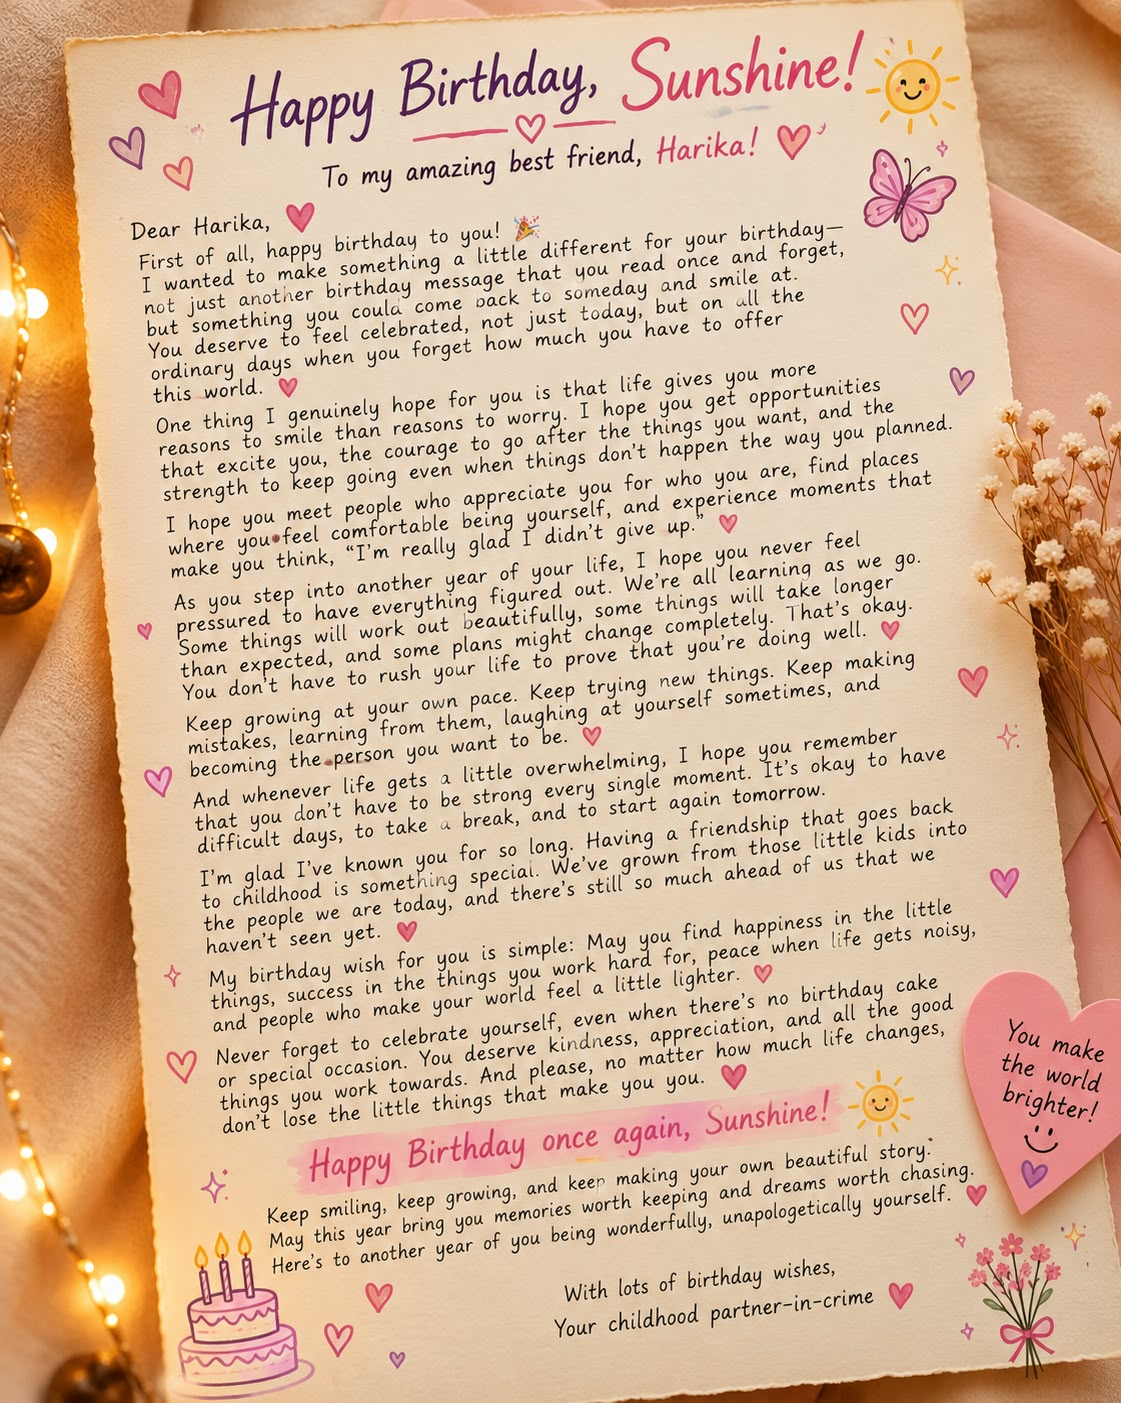
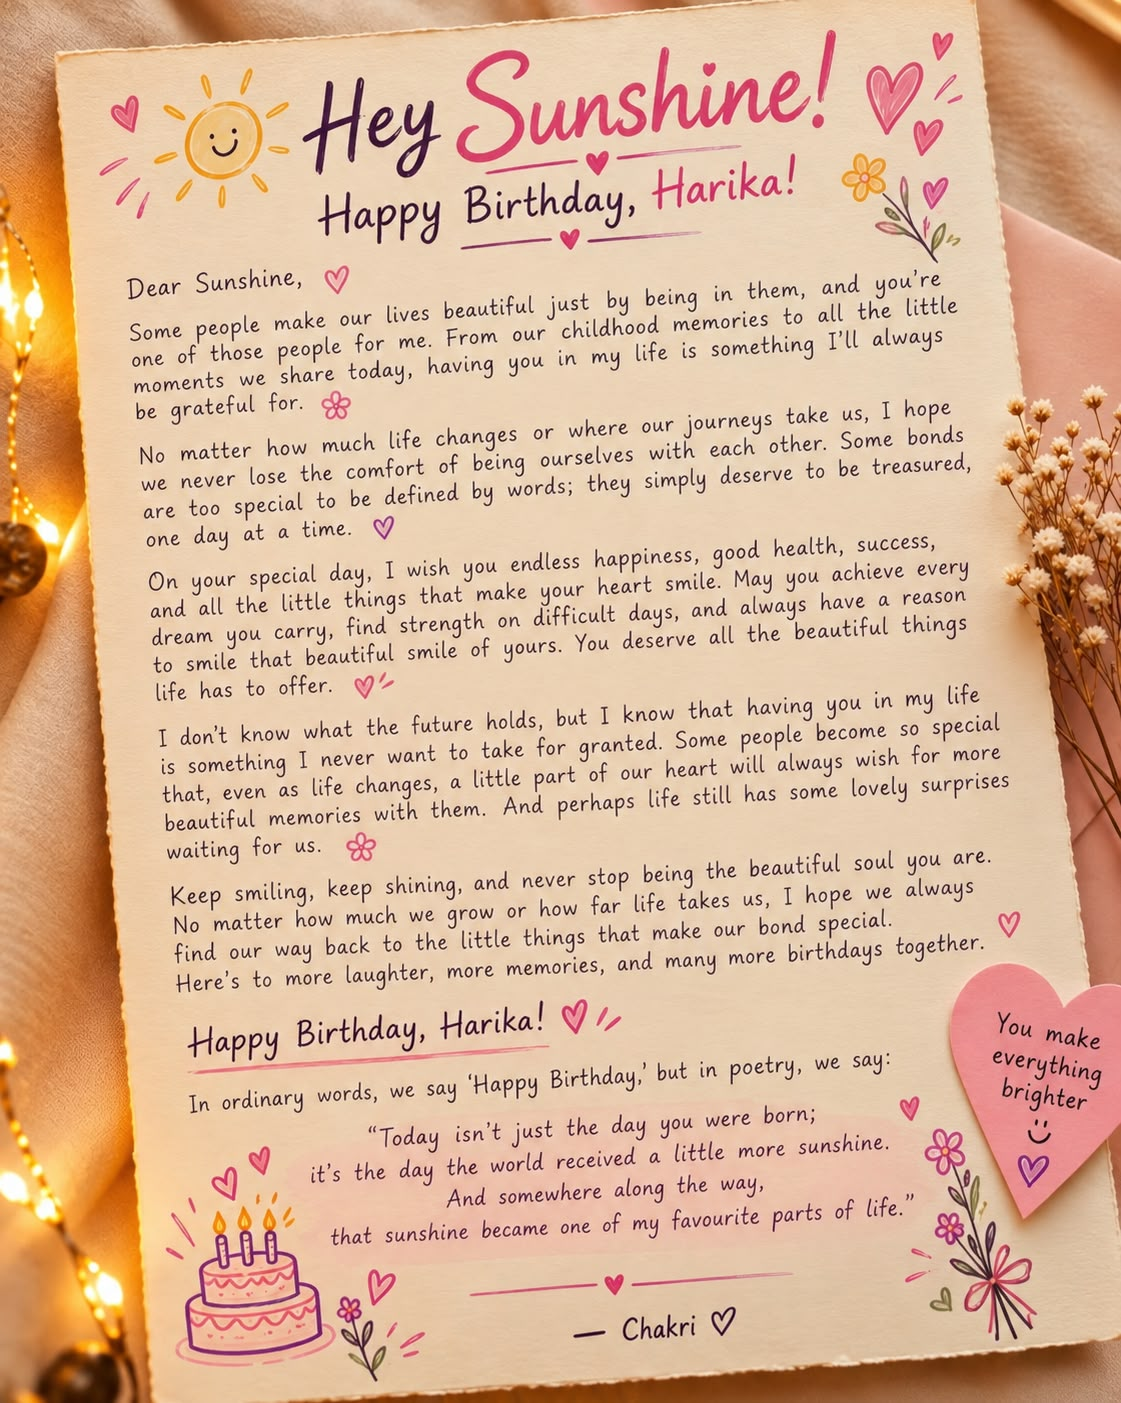
Update birthday letter image

diff --git a/index.html b/index.html
@@ -249,24 +249,16 @@
             <div class="school-letter-divider" aria-hidden="true"><span>✦</span><i></i><span>♥</span><i></i><span>✦</span></div>
 
             <article class="school-letter-card">
-              <p class="school-letter-kicker">A LITTLE NOTE, KEPT CLOSE</p>
-              <h3>A Note From Our Early Years</h3>
+              <h3>OUR PRIMARY SCHOOL DAYS 🌸</h3>
               <div class="school-letter-copy">
-                <p>Dear Harika,</p>
-                <p>Sometimes, I think about how we started—as two little kids in primary school who had no idea how many years of memories lay ahead of us.</p>
-                <p>Back then, life was so simple. We didn't need big plans or special occasions to be happy. The smallest things could make an ordinary day unforgettable. We were just kids, growing up one school day at a time, without realizing that those little moments would become memories we'd carry with us for years.</p>
-                <p>If I could go back to one day from our primary school days, I honestly would. Not to change anything, but just to experience that little world once again. To see those younger versions of us, to laugh at the silly things we probably don't even remember properly anymore, and to enjoy a time when growing up felt so far away.</p>
-                <p>It's funny how time works. Back then, we were probably waiting to grow up, and now, a part of me wishes we could pause the clock for a little while. We didn't know how quickly everything would change, how much we'd grow, or how different life would look years later.</p>
-                <p>But one thing I love about childhood memories is that they don't really disappear. A familiar place, an old school memory, or even a random little thing can suddenly take you back. And for a moment, you're that kid again, living a day you didn't know you'd someday miss.</p>
-                <p>I'm glad our story began when it did. Not everyone gets to look back and remember someone who has been part of their story since they were little.</p>
-                <p>We've grown up, and there's still so much life waiting for us. But somewhere in all these years, those primary school days have kept their own special place.</p>
-                <p>So here's to the little kids we used to be, the memories that made those days special, and all the beautiful moments we haven't experienced yet.</p>
-                <p>If time ever gave us just one day back, I think I'd spend it smiling at how little we were and how much life was still waiting for us.</p>
-                <p class="school-letter-birthday">Happy Birthday, Harika!</p>
-                <p>I hope the girl you were back then would look at the person you've become today and smile proudly.</p>
+                <p>We began our school journey in the same year, sitting on opposite benches, never knowing that these little moments would become some of my most precious memories. 🥹💕</p>
+                <p>I still remember how you used to wear a different little flower on your braid every day, with that cute, innocent face of yours. 🌼 Those tiny things might seem ordinary now, but they stayed forever in my heart.</p>
+                <p>Days passed, and we reached 3rd standard. You might not remember our Annual Day dance performance, but I still do. Whenever I think about my childhood, that memory brings the sweetest smile to my face. 💃🏻</p>
+                <p>Later, I changed schools, but distance never ended our bond. Those evenings when you came for tuition beside my home were the moments I waited for the most. Just seeing you and getting a little time to talk made my day special. 🫶🏻</p>
+                <p>Sometimes, I wish I could travel back to those carefree days—to our innocent smiles, little conversations, and a life without fear or stress. Just two little girls, living in their own beautiful world, unaware of how precious those moments would become. 🦋</p>
+                <p>Maybe we can't return to those days, Harika, but I'm so grateful that I got to share them with you. Some childhood memories never grow old, and you're forever a beautiful part of mine. 🌷💗</p>
               </div>
-              <p class="school-letter-signoff">From your childhood partner-in-crime,<br />Always cheering for you.</p>
-              <p class="school-letter-footer">Your childhood partner-in-crime ❤</p>
+              <p class="school-letter-footer">— Chakri ♡</p>
             </article>
           </section>
 
